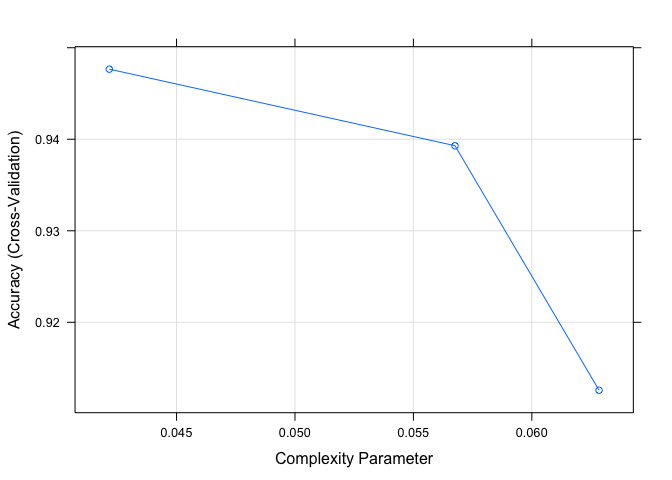
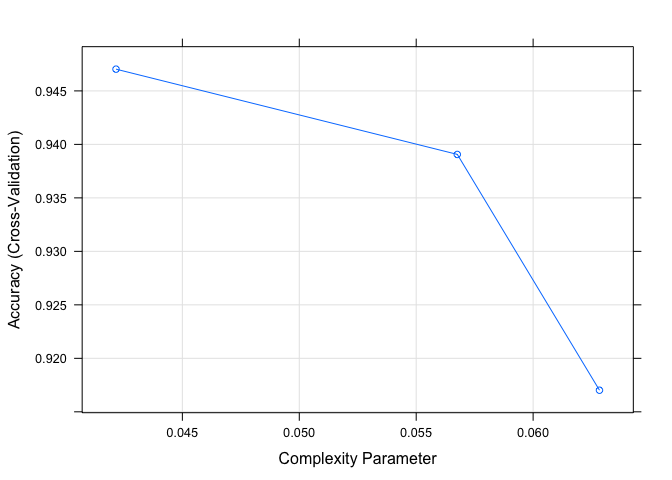
4 th commit

diff --git a/yelp.md b/yelp.md
@@ -78,13 +78,13 @@ clasmodel
 ## 
 ## No pre-processing
 ## Resampling: Cross-Validated (10 fold) 
-## Summary of sample sizes: 15802, 15802, 15802, 15802, 15802, 15802, ... 
+## Summary of sample sizes: 15803, 15802, 15802, 15802, 15802, 15802, ... 
 ## Resampling results across tuning parameters:
 ## 
 ##   cp          Accuracy   Kappa    
-##   0.04216216  0.9476596  0.6997754
-##   0.05675676  0.9392861  0.6255939
-##   0.06283784  0.9125777  0.2705621
+##   0.04216216  0.9470327  0.6946820
+##   0.05675676  0.9390593  0.6209058
+##   0.06283784  0.9170176  0.3299373
 ## 
 ## Accuracy was used to select the optimal model using the largest value.
 ## The final value used for the model was cp = 0.04216216.
